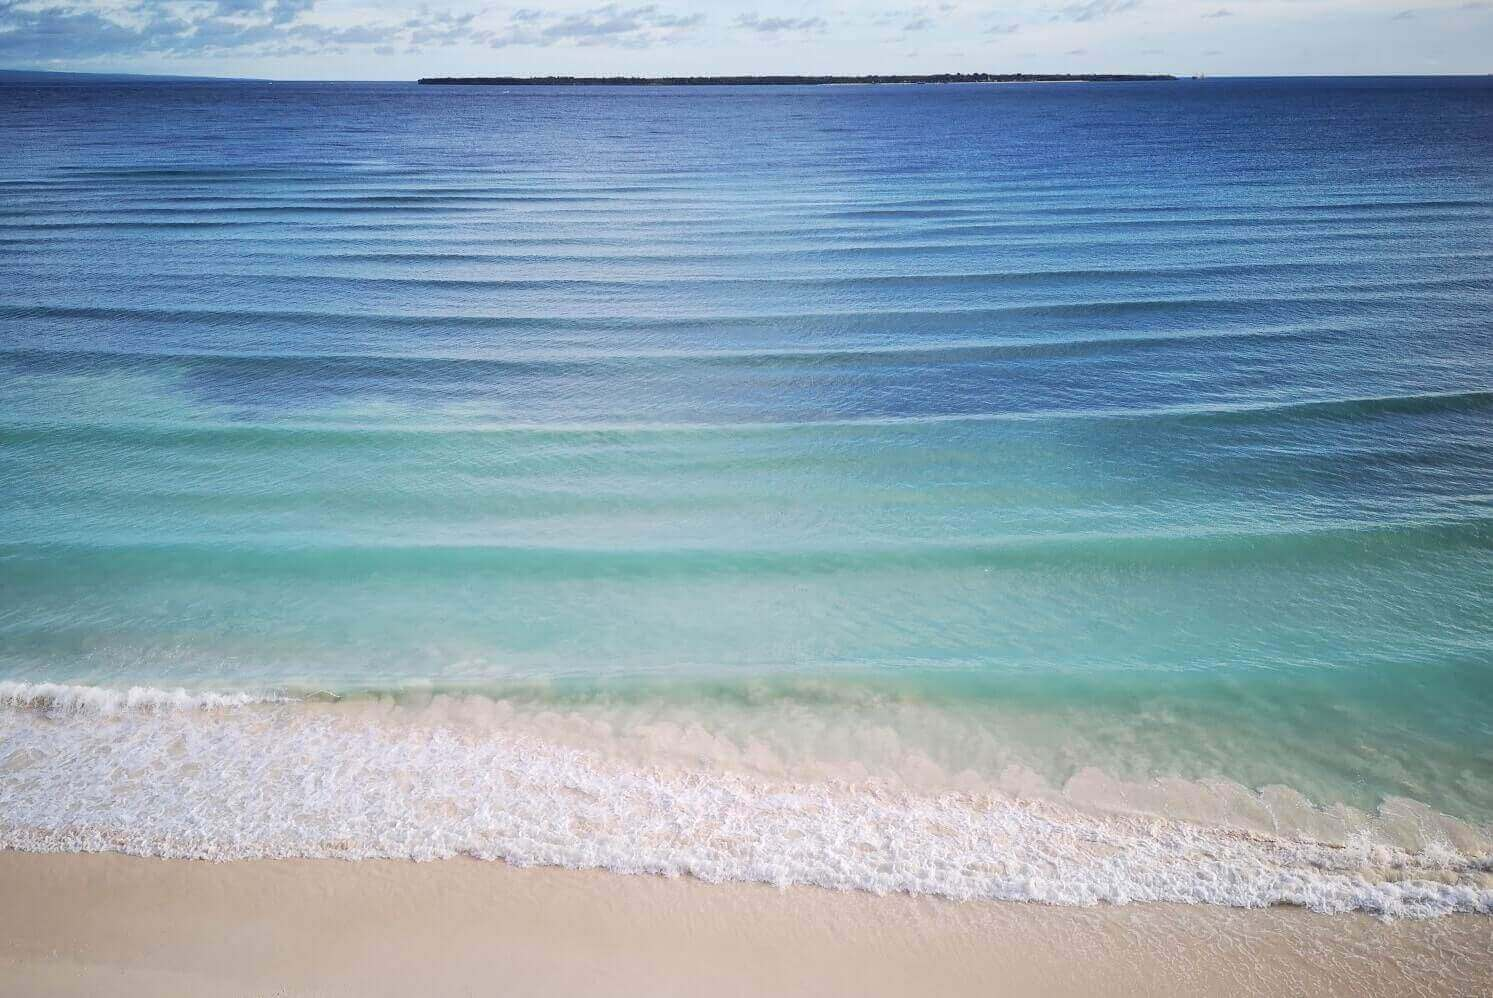
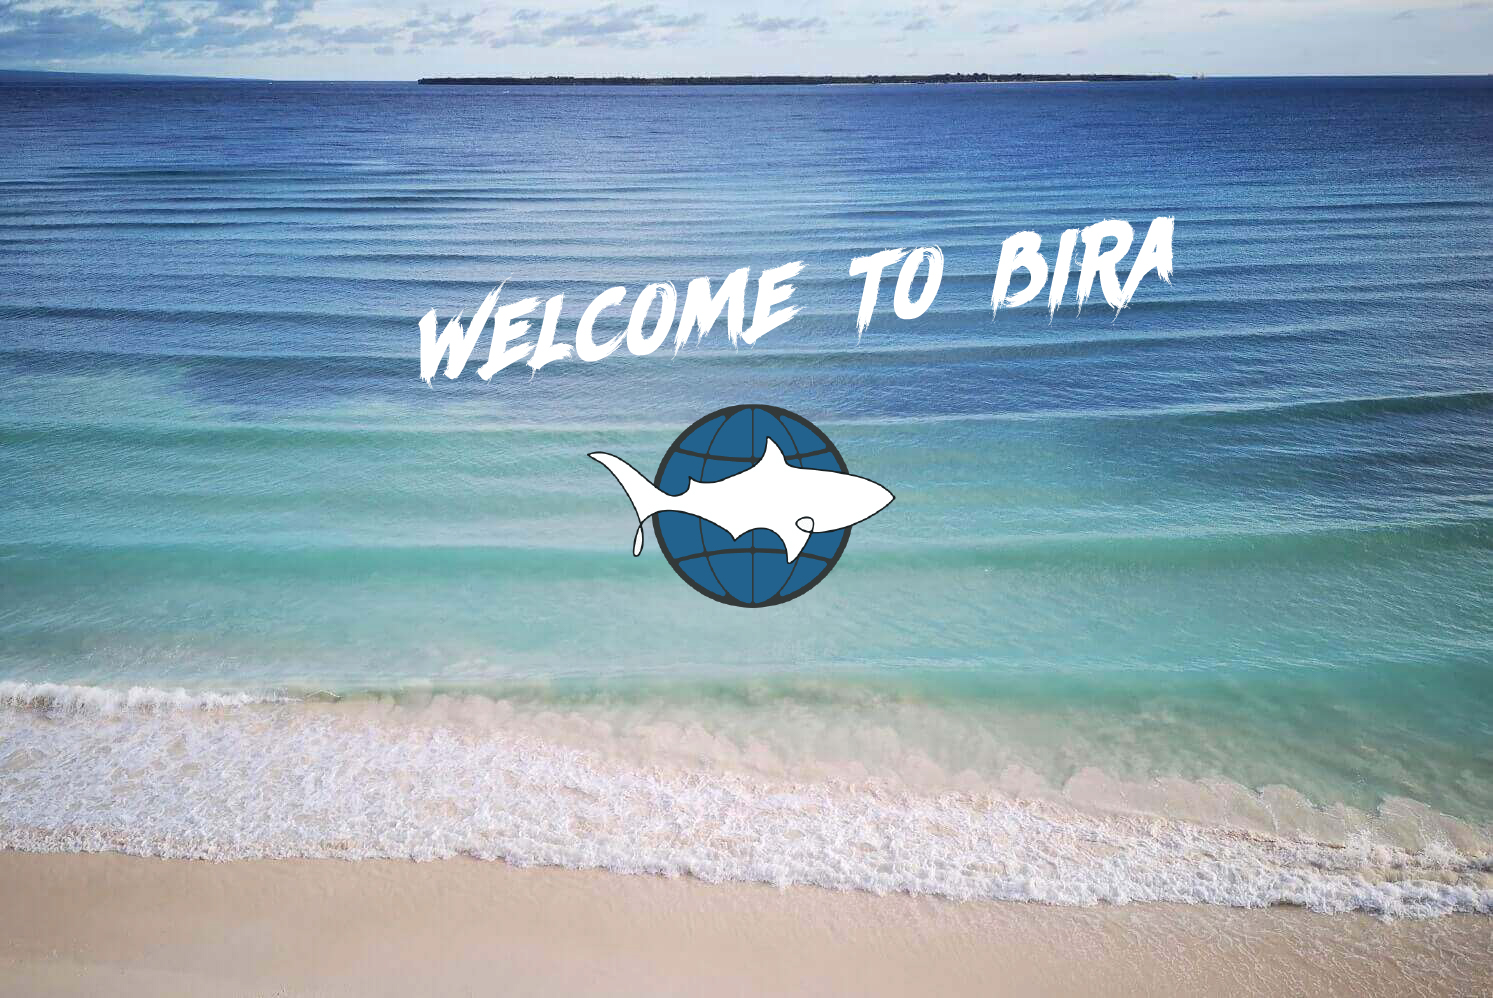
install new bg

Changed region(s): [[0.2773, 0.2174, 0.8011, 0.4038], [0.4005, 0.4038, 0.6162, 0.6212]]

diff --git a/src/pages/Index/WelcomeImages.js b/src/pages/Index/WelcomeImages.js
@@ -1,5 +1,4 @@
 import React, { useState } from "react";
-import Text from "react-text";
 import styled from "styled-components";
 const WelcomeImages = (props) => {
   const BackgroundImg = styled.img`
@@ -7,28 +6,11 @@ const WelcomeImages = (props) => {
     left: 0;
     width: 100%;
   `;
-
-  const LogoImg = styled.img`
-    position: absolute;
-    z-index: 1;
-    margin: auto;
-    width: 20%;
-    top: 220px;
-  `;
-
   const WelcomeImages = styled.div`
     display: flex;
+    width: 100%;
     justify-content: center;
     align-items: center;
-  `;
-  const Legend = styled.div`
-    font-family: "Amatic SC";
-    font-size: 6em;
-    position: absolute;
-    top: 1.7em;
-    color: white;
-    text-align: center;
-    width: 100%;
   `;
   const [loaded, setLoaded] = useState(false);
   return (
@@ -48,14 +30,6 @@ const WelcomeImages = (props) => {
         />
       ) : null}
       <WelcomeImages>
-        {loaded && (
-          <>
-            <Legend className="welcome-text ancher-font">
-              <Text id="welcomeToBira" />
-            </Legend>
-            <LogoImg src="img/logo.png" alt="logo" className="logo" />
-          </>
-        )}
         <BackgroundImg
           onLoad={() => {
             setLoaded(true);
